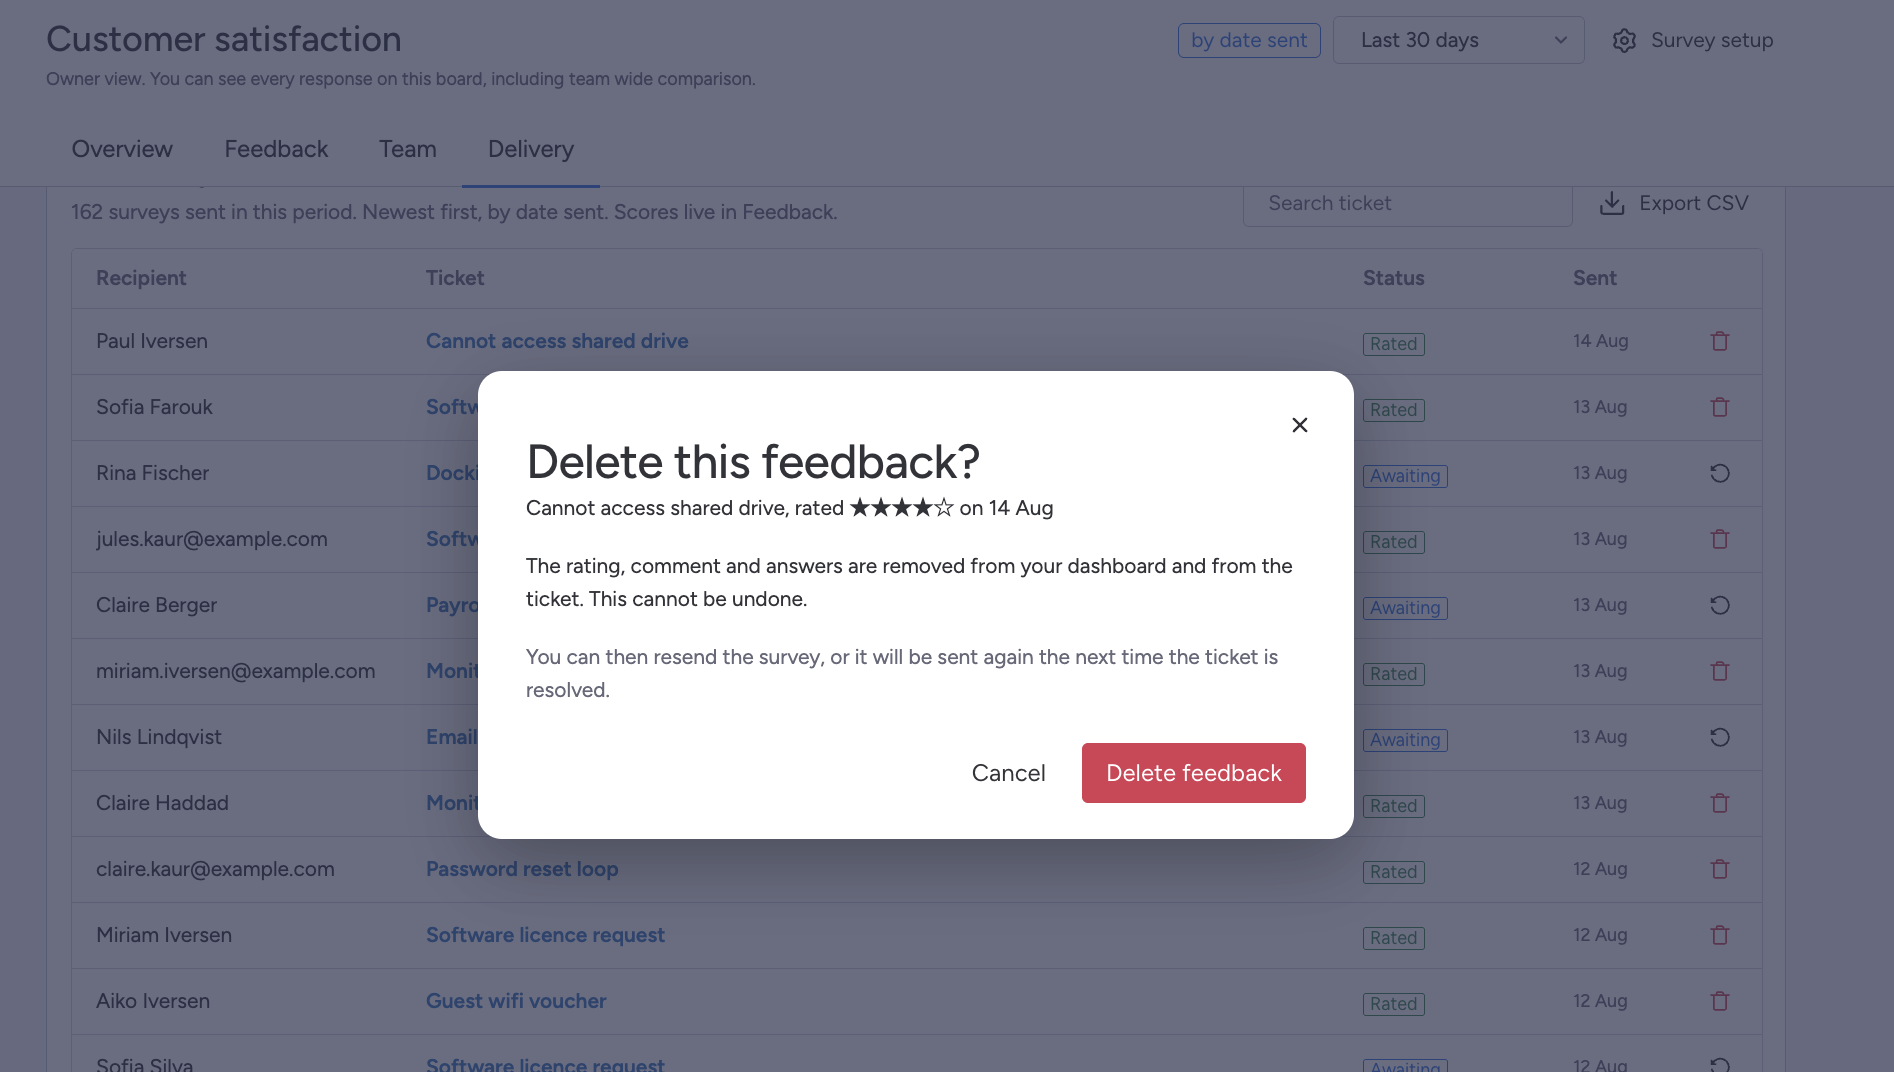
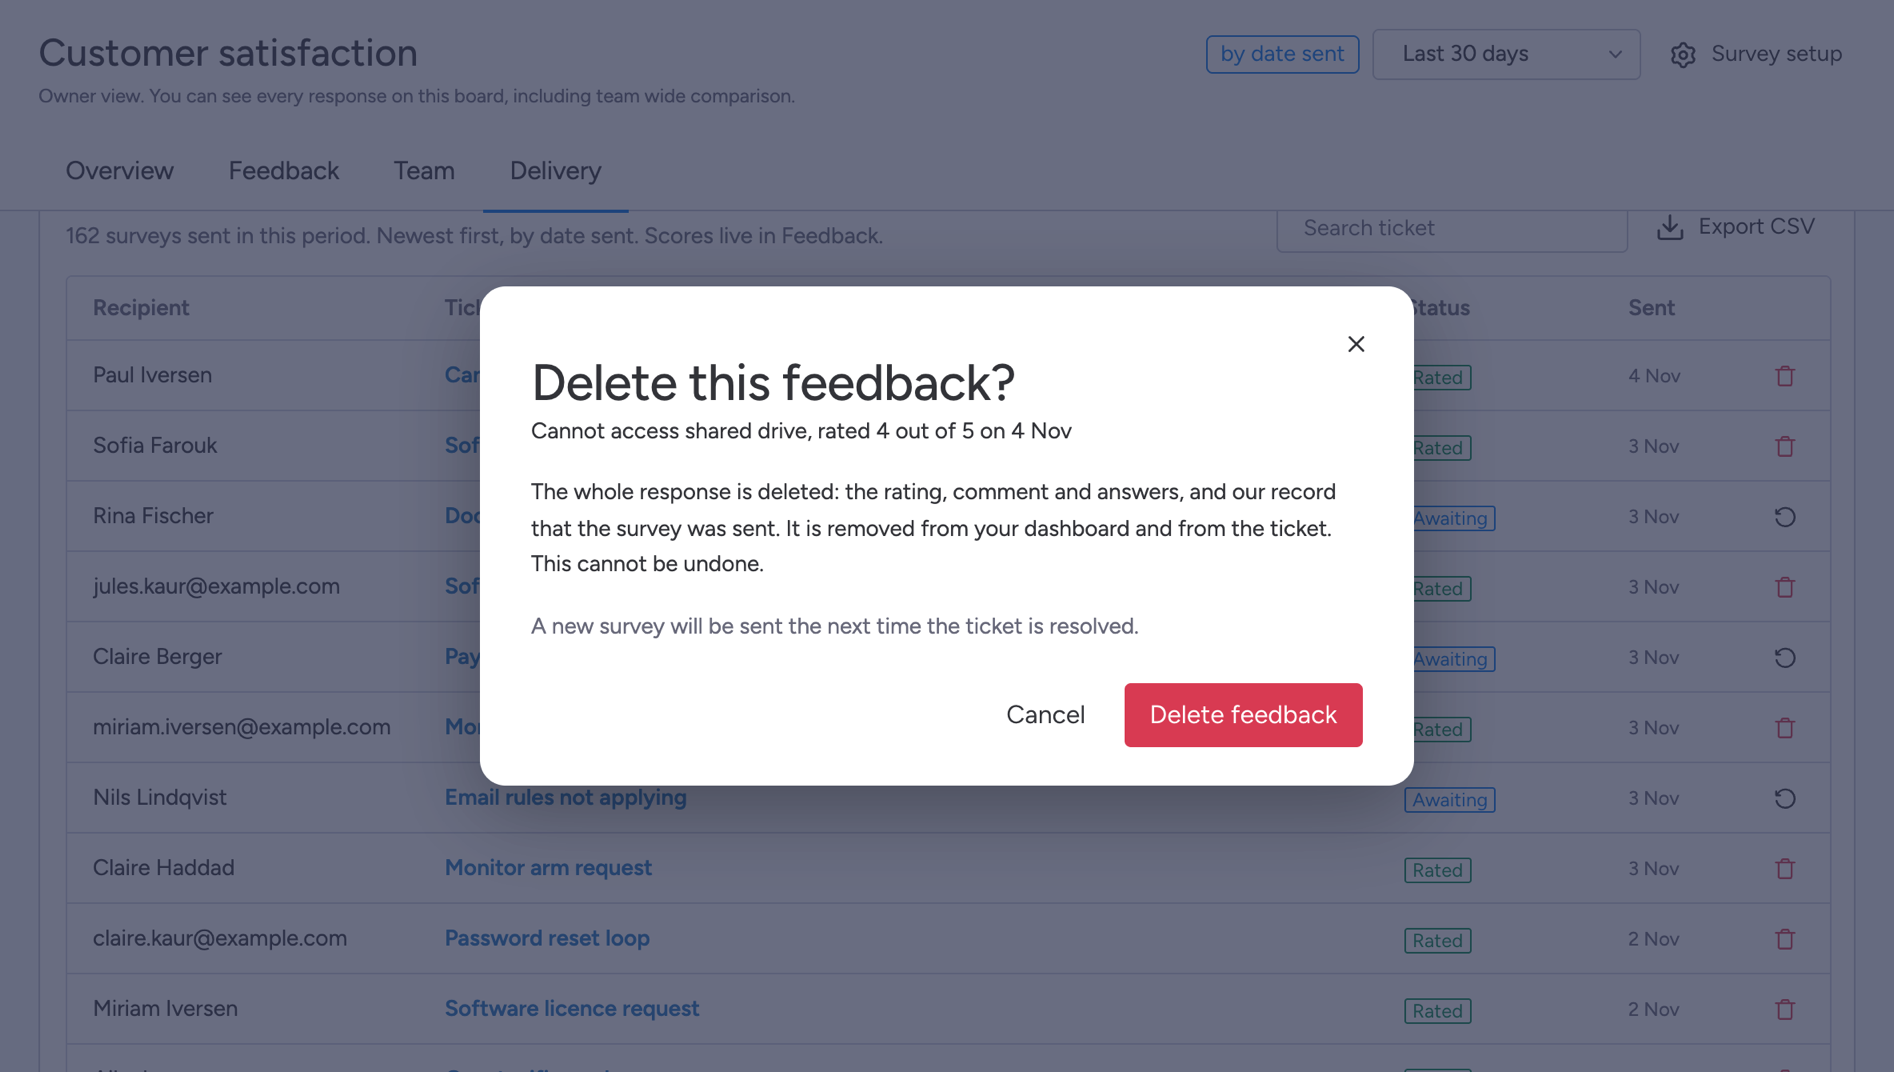
Survey Flow docs: Sidekick invokers, repeat protection after delete, shot 28
- Sidekick skills: terms, privacy and the user guide now say the same thing,
  taken from csat routes/skillSearch.js and routes/skillFollowUp.js. An active
  account admin is answered for the configured boards they can access; an
  active board owner for the configured boards they own; anyone else is
  refused (403). Terms previously said anyone who can invoke a skill reaches
  them.
- Repeat protection: a rated ticket is surveyed again after its feedback is
  deleted from the Delivery tab, the next time it reaches the trigger status.
  Added to the guide's "Repeat protection" and "When Survey Flow does not
  send", and to the same rule in terms.
- Screenshot 28-delete-confirm retaken from the csat admin harness with
  made-up data and the current DELETE_FEEDBACK_COPY; figure uncommented,
  SCREENSHOTS.md marks it landed.

diff --git a/survey-flow/user-guide.html b/survey-flow/user-guide.html
@@ -544,7 +544,7 @@
     <p>Once a configuration is active the sequence runs without anyone touching it. An agent moves a ticket into the trigger status, Survey Flow notices, finds the address, runs its checks, and sends. Agents have no button to press and nothing to remember. That is the point.</p>
     <h3>When Survey Flow does not send</h3>
     <p>Survey Flow runs a few checks before every send, and each one is deliberate. When a survey you expected never arrived, this is the list to walk.</p>
-    <p><strong>Something about the ticket.</strong> It was deleted, or it moved to another board, or it does not match the conditions you set. A ticket that has already been rated is never surveyed again either, which is <a href="#repeat">repeat protection</a>.</p>
+    <p><strong>Something about the ticket.</strong> It was deleted, or it moved to another board, or it does not match the conditions you set. A ticket that has already been rated is never surveyed again either, unless its feedback was deleted, which is <a href="#repeat">repeat protection</a>.</p>
     <p><strong>Something about the address.</strong> The mapped field is empty on that ticket, or the column you mapped no longer exists on the board at all. The address is on your exclusion list, or the customer unsubscribed. Earlier mail to that address bounced or was marked as spam, so Survey Flow stopped writing to it.</p>
     <p><strong>Something about your plan.</strong> You reached your monthly response limit. This one behaves differently from the rest. The survey is held rather than skipped, and you can send it once there is room. See <a href="#plans">Plans and limits</a>.</p>
     <p>Delivery is normally quick, though the message passes through an email provider and ordinary email delays apply.</p>
@@ -607,7 +607,7 @@
     <h3 id="repeat">Repeat protection</h3>
     <p>Repeat protection starts when somebody rates. Until then there is none, and that is worth knowing before you design a workflow around it.</p>
     <p>A ticket nobody has rated is surveyed again every time it reaches the trigger status. Move it from Done to Reopened and back to Done twice in an afternoon and the customer gets two emails. If your team reopens tickets often, either use a status that only gets set once or expect the extra sends.</p>
-    <p>Once a customer has rated, that ticket is never surveyed again, with no time limit at all.</p>
+    <p>Once a customer has rated, that ticket is never surveyed again, with no time limit at all, unless that feedback is deleted from the Delivery tab. After a delete, the ticket is surveyed again the next time it reaches the trigger status.</p>
 
     <h3>Opting out</h3>
     <p>Every survey email carries an unsubscribe link. A customer who uses it receives no further surveys from you, on any board.</p>
@@ -646,13 +646,10 @@
       <h3>Deleting feedback cannot be undone</h3>
       <p>There is no recovery step. The rating and whatever the customer wrote are gone from the dashboard and from the ticket, and the only way to hear from that customer again is for the ticket to resolve and be surveyed afresh. Restricting it to account admins and board owners is the whole safeguard, so be sure before you confirm.</p>
     </div>
-    <!-- SCREENSHOT NEEDED: 28-delete-confirm (RETAKE). The old capture still says "You can then resend
-         the survey", which the hard delete made wrong. See SCREENSHOTS.md.
     <figure>
       <img class="screenshot" src="../images/survey-flow/28-delete-confirm.png" alt="The dialog asking for confirmation before feedback is deleted">
       <figcaption>The confirmation shown before feedback is deleted.</figcaption>
     </figure>
-    -->
     <p>The CSV export sits on the same tab. It is how you take your history out of Survey Flow, whether for a report of your own or before uninstalling.</p>
     <div class="callout">
       <h3>Reading small numbers</h3>
@@ -714,7 +711,7 @@
       <li><code>create a follow-up for &lt;ticket name&gt;</code></li>
     </ul>
     <p>The last one carries a behaviour worth knowing. <strong>You can name a ticket rather than look up its id</strong> — and if the name you give matches more than one ticket, the skill refuses and lists them instead of picking one. That refusal is what stops a follow up item being created against the wrong customer's words, so read the list rather than retrying with the same name.</p>
-    <p>The difference from everything else in this guide is worth stating plainly. <strong>These are not gated on a setting.</strong> There is no switch to leave off. Anyone who can invoke the skill reaches them, which means an account admin or a board owner.</p>
+    <p>The difference from everything else in this guide is worth stating plainly. <strong>These are not gated on a setting.</strong> There is no switch to leave off. They answer only an active account admin, limited to the boards set up for Survey Flow that the admin can access, or the owner of a board set up for Survey Flow, limited to the boards they own. Anyone else who calls them is refused.</p>
 
     <p><strong>Sidekick asks you to confirm before it runs either skill, every time, including the one that only reads.</strong> That is monday.com's behaviour and not something we can switch off. It is also a real stop rather than a formality: decline and nothing reaches Survey Flow at all, so a question that came out wrong costs you nothing.</p>
     <p>The finding skill returns, for each response it matches, the customer's comment exactly as written, the follow up answers, the score, the ticket title, a date, and the display name of the agent who handled the ticket. Sidekick writes its reply out of that material, and the reply lands in a chat transcript. How long that transcript lives, and who else can read it, is monday.com's to answer rather than ours.</p>
@@ -766,7 +763,7 @@
     <p>That is what makes per agent feedback useful, and it is also more exposure than some teams want. If it does not suit yours, raise it with us before rolling Survey Flow out to the whole desk.</p>
     <p>The same applies to low rating alerts. Whoever you nominate receives the customer's identity in a monday notification, whether or not they ever open Survey Flow.</p>
     <p><strong>A follow up item is read by the destination board's members.</strong> That audience is set on the board, by whoever administers it, and is unrelated to who can open Survey Flow. The comment goes onto the board word for word. See <a href="#followups">Follow up items</a> in step 7.</p>
-    <p><strong>A Sidekick answer lands in a chat transcript.</strong> It is composed from customer comments and the agent's display name, and where it goes afterwards is governed by monday.com rather than by us. Any admin or board owner can ask for one. See <a href="#sidekick">step 8</a>.</p>
+    <p><strong>A Sidekick answer lands in a chat transcript.</strong> It is composed from customer comments and the agent's display name, and where it goes afterwards is governed by monday.com rather than by us. Any account admin, or the owner of a board set up for Survey Flow, can ask for one. See <a href="#sidekick">step 8</a>.</p>
 
     <h2 id="privacy">Privacy in brief</h2>
     <p>Survey Flow handles your customers' email addresses and whatever they write in a survey, so here is the short version. The full detail, including every sub processor, retention period, and what happens when you uninstall, is in the <a href="https://docs.aiverylabs.com/survey-flow/privacy.html">privacy policy</a>.</p>

diff --git a/survey-flow/terms.html b/survey-flow/terms.html
@@ -134,7 +134,7 @@
 
     <h3>You decide who is contacted</h3>
     <p>You choose the board, the trigger status, the conditions and the field holding the address. We send to whoever that produces. You must have a lawful basis to email those people, and a genuine business relationship with them of the kind that makes a satisfaction survey a reasonable thing to send.</p>
-    <p>A survey is sent each time a ticket reaches the trigger status, until somebody rates it. Reopening and re resolving a ticket sends again, so the same recipient may receive more than one survey for the same ticket.</p>
+    <p>A survey is sent each time a ticket reaches the trigger status, until somebody rates it, or again after that rating is deleted from the Delivery tab. Reopening and re resolving a ticket sends again, so the same recipient may receive more than one survey for the same ticket.</p>
     <p>Surveys on a board are sent, and their results written back, with the monday.com authorization of the board owner who last saved its setup.</p>
 
     <h3>You comply with email and privacy law</h3>
@@ -144,7 +144,7 @@
     <p>The subject line, the greeting, the questions, the sign off, your sender name and your logo are yours. You are responsible for their content, for their accuracy, and for making sure they do not infringe anyone's rights.</p>
 
     <h3>You decide what leaves your account</h3>
-    <p>Some of the service sends what your customers write to monday.com's AI, and every part of that is a decision you make. AI questions and labelling are switched off until an owner of the board turns them on in its survey setup; leave them off and no comment or answer is sent to any model by them. Turning one on is a decision to send what your customers wrote. The two Sidekick skills are not gated on a setting, and anyone on your account who can invoke a skill reaches them.</p>
+    <p>Some of the service sends what your customers write to monday.com's AI, and every part of that is a decision you make. AI questions and labelling are switched off until an owner of the board turns them on in its survey setup; leave them off and no comment or answer is sent to any model by them. Turning one on is a decision to send what your customers wrote. The two Sidekick skills are not gated on a setting. Survey Flow answers them only for an active account admin, limited to the boards set up for Survey Flow that the admin can access, or for the owner of a board set up for Survey Flow, limited to the boards they own. Anyone else on your account who calls a skill is refused.</p>
     <p>Section 4 of the <a href="privacy.html#ai">privacy policy</a> sets out exactly what each path sends, where monday.com states the text goes afterwards, and the limits of what monday.com has actually stated. Read it before switching either feature on, and take the decision as one you are making on behalf of the people you surveyed.</p>
     <p>Creating a follow up item puts the rating, the comment as written and the answers onto a board you nominate, where the audience is that board's membership rather than anyone Survey Flow controls. Choosing the destination board is choosing who can read what your customer wrote.</p>
 

diff --git a/survey-flow/privacy.html b/survey-flow/privacy.html
@@ -193,7 +193,7 @@
 
     <h3>A fourth path, which no setting controls</h3>
     <p>Survey Flow also publishes two skills to monday.com's Sidekick assistant. One finds feedback; the other creates a follow-up item from a response. The one that finds feedback returns, for each response it matches, the comment exactly as written, every follow-up answer run together, the CSAT score, the ticket title, a date, and the assigned agent's monday.com display name, which is one of your own staff. That reply is handed to Sidekick, which writes its answer out of it.</p>
-    <p>So customer comments reach a model here too, on a path of its own. Unlike the three features above, this one is not gated on any setting. Anyone who can invoke the skill, which means an admin or a board owner, reaches it. Section 5 covers where the answer then appears and who can read it.</p>
+    <p>So customer comments reach a model here too, on a path of its own. Unlike the three features above, this one is not gated on any setting. It answers only an active account admin, limited to the boards set up for Survey Flow that the admin can access, or the owner of a board set up for Survey Flow, limited to the boards they own. Anyone else who calls it is refused. Section 5 covers where the answer then appears and who can read it.</p>
 
     <h3>What happens to it once it leaves</h3>
     <p>All four paths call monday.com's AI, so the text goes to monday.com first. monday.com states in its AI Trust Center that it does not use input or output to train models and does not allow anyone else to, and that it reaches large language models through managed APIs from Microsoft Azure and AWS Bedrock under zero retention policies. The text therefore does not stop at monday.com. It leaves monday.com's own infrastructure, and the monday.com row of the table in section 6 records that routing.</p>

diff --git a/SCREENSHOTS.md b/SCREENSHOTS.md
@@ -85,7 +85,7 @@ never a review account or a customer.
 | ~~`53-paused-take-over`~~ (landed 2026-11-03, see below) | §3, *Who the survey runs as* | Board dashboard as a DIFFERENT board owner after the config owner's grant stopped working (e.g. revoke on a second test user): *Surveys are paused on this board.* with the name line and the *Take over* button |
 | ~~`54-save-and-run-as-you`~~ (landed 2026-11-03, after CFM-208) | §3, *Who the survey runs as* | Survey setup in the same paused state, same viewer: the one paused message, quiet owner line *Background actions are set to run as …*, save button reading *Save and run as you* |
 
-## ⚠ Hard delete of one response — 1 retake (2026-11-05)
+## Hard delete of one response — 1 retake, landed (2026-11-05)
 
 Prompted by a code change, not a comparison: a per-response delete now removes the whole record
 (csat `deleteFeedback`, reviewer follow-up 2026-11-05), so the dialog copy changed. The old `28`
@@ -96,11 +96,16 @@ account or a customer.
 
 | File | Lands in | Screen and state |
 |---|---|---|
-| `28-delete-confirm` (RETAKE) | §6, Delivery, after the *Deleting feedback cannot be undone* callout | Delivery tab, Delete on a rated row, dialog *Delete this feedback?* open: the ticket line (*…, rated N out of 5 on …*), then *The whole response is deleted: the rating, comment and answers, and our record that the survey was sent. It is removed from your dashboard and from the ticket. This cannot be undone.*, then *A new survey will be sent the next time the ticket is resolved.*, with Cancel and Delete feedback. **Press Cancel only**: Delete feedback really deletes. Seeded ticket title only. Text source: `DELETE_FEEDBACK_COPY` in csat `apps/admin/src/dashboard/ds/team.jsx` |
+| ~~`28-delete-confirm`~~ (RETAKE, landed 2026-11-05, see below) | §6, Delivery, after the *Deleting feedback cannot be undone* callout | Delivery tab, Delete on a rated row, dialog *Delete this feedback?* open: the ticket line (*…, rated N out of 5 on …*), then *The whole response is deleted: the rating, comment and answers, and our record that the survey was sent. It is removed from your dashboard and from the ticket. This cannot be undone.*, then *A new survey will be sent the next time the ticket is resolved.*, with Cancel and Delete feedback. **Press Cancel only**: Delete feedback really deletes. Seeded ticket title only. Text source: `DELETE_FEEDBACK_COPY` in csat `apps/admin/src/dashboard/ds/team.jsx` |
 
-## ⚠ Outstanding — 2
+**Landed 2026-11-05.** Rendered from the csat admin harness, not captured from a test account:
+`DashboardApp` on the Delivery tab with seeded made-up rows (no data from any real account), the
+dialog opened on a rated row and never confirmed. Playwright, deviceScaleFactor 2 at a 1184×670
+viewport (at 947 CSS px the header wraps), downscaled to 1894×1072 to match the old file and crop.
+The dialog text was read back from the page and matches the current `DELETE_FEEDBACK_COPY`. The
+figure in `user-guide.html` is uncommented.
 
-- `28-delete-confirm` — retake, see the section above. Not blocked.
+## ⚠ Outstanding — 1
 
 
 ### `01-marketplace-install.png` — blocked, not your fault
